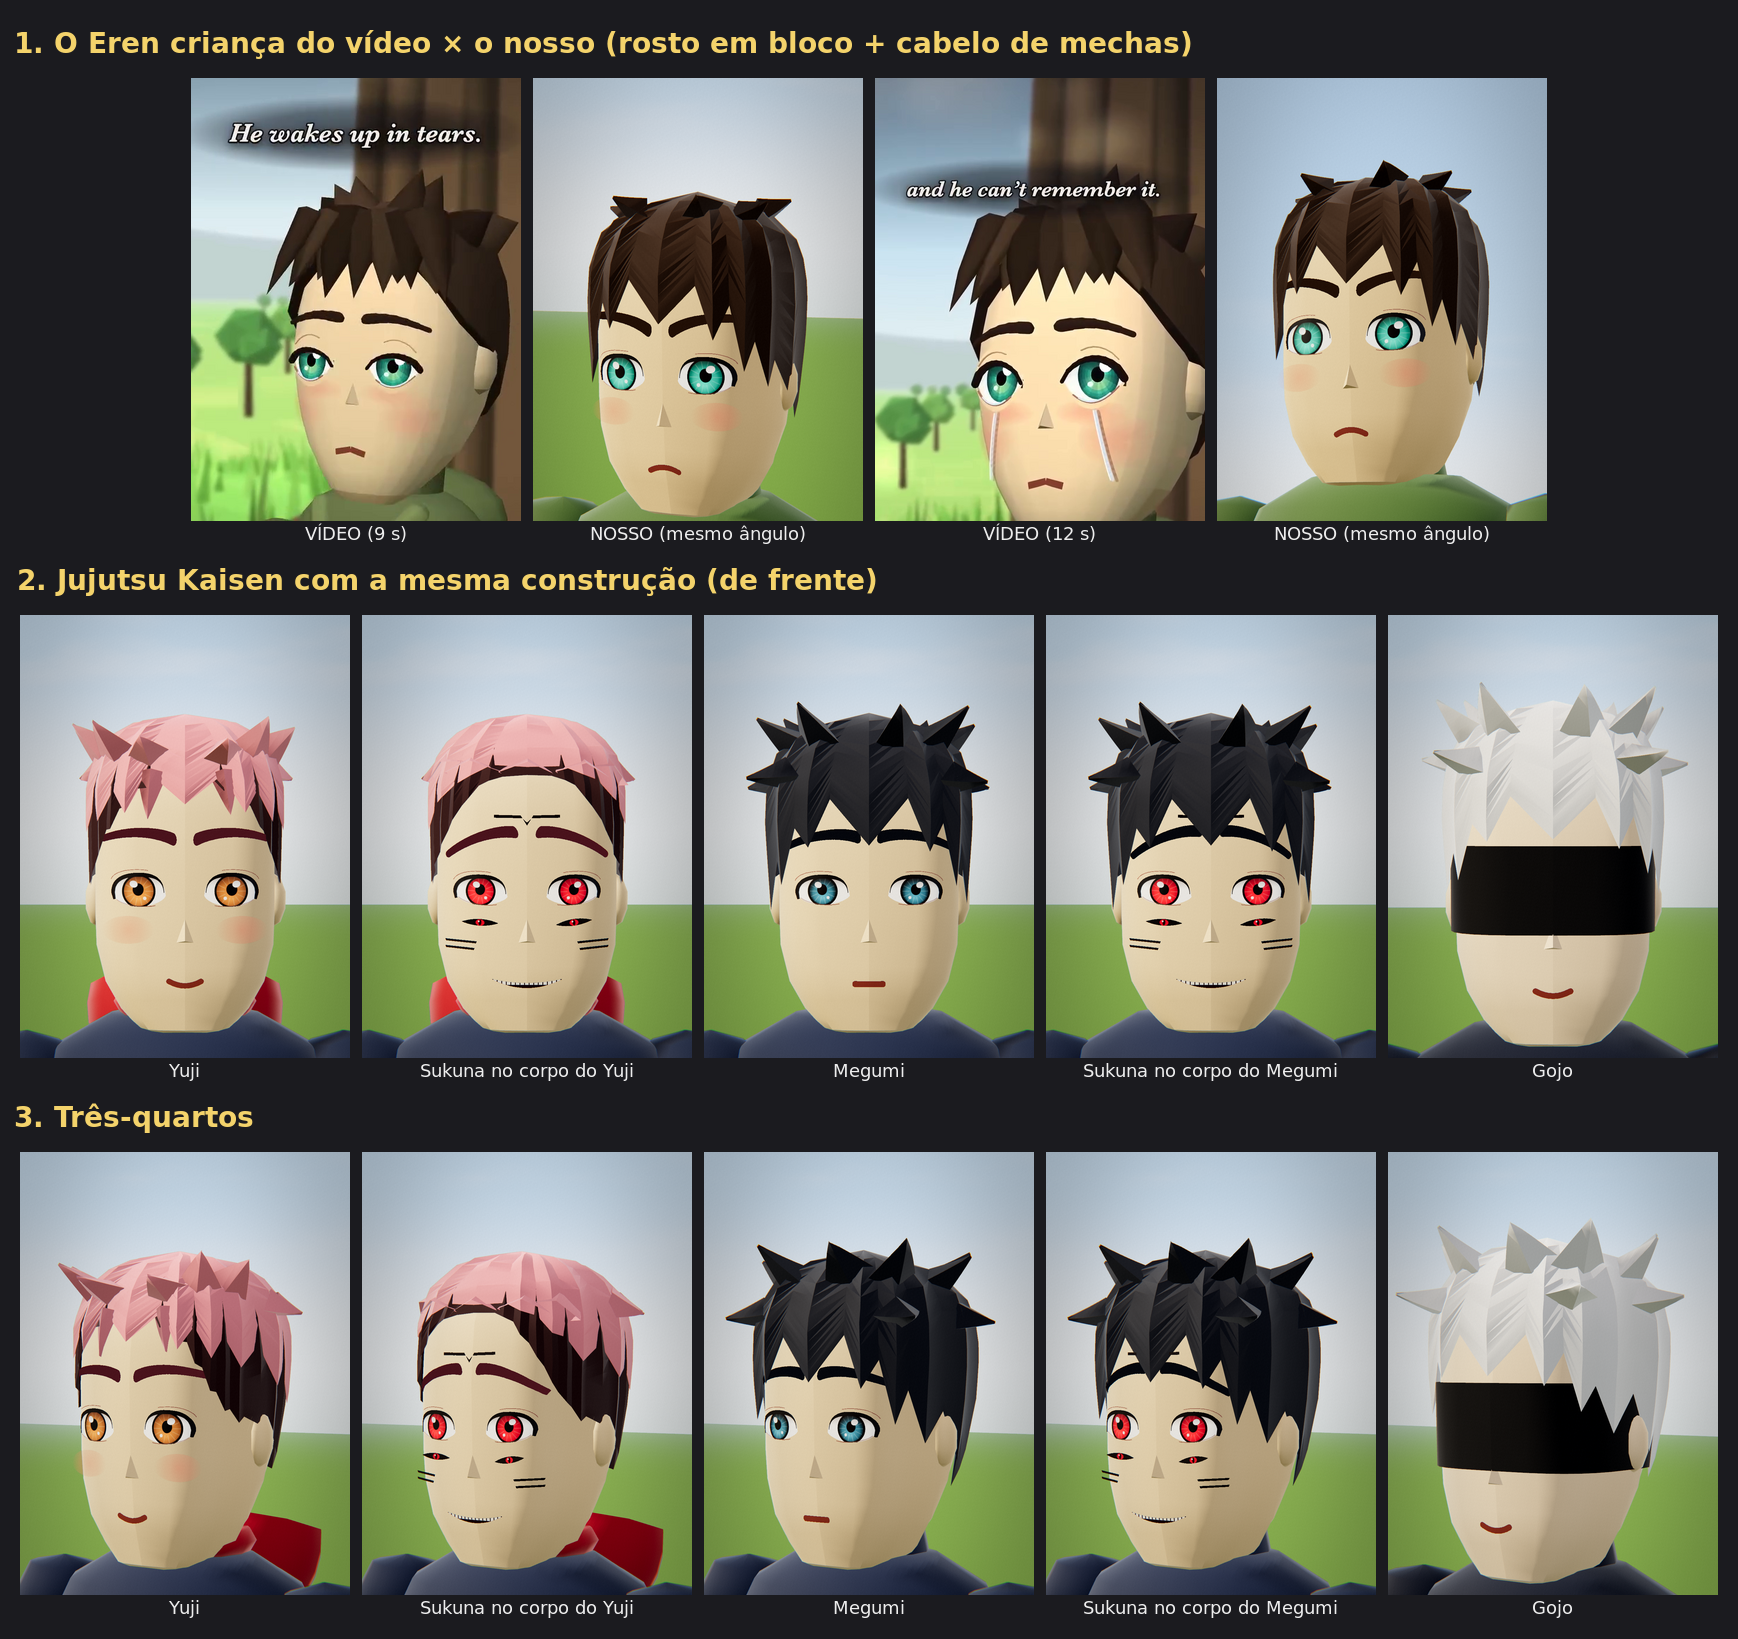
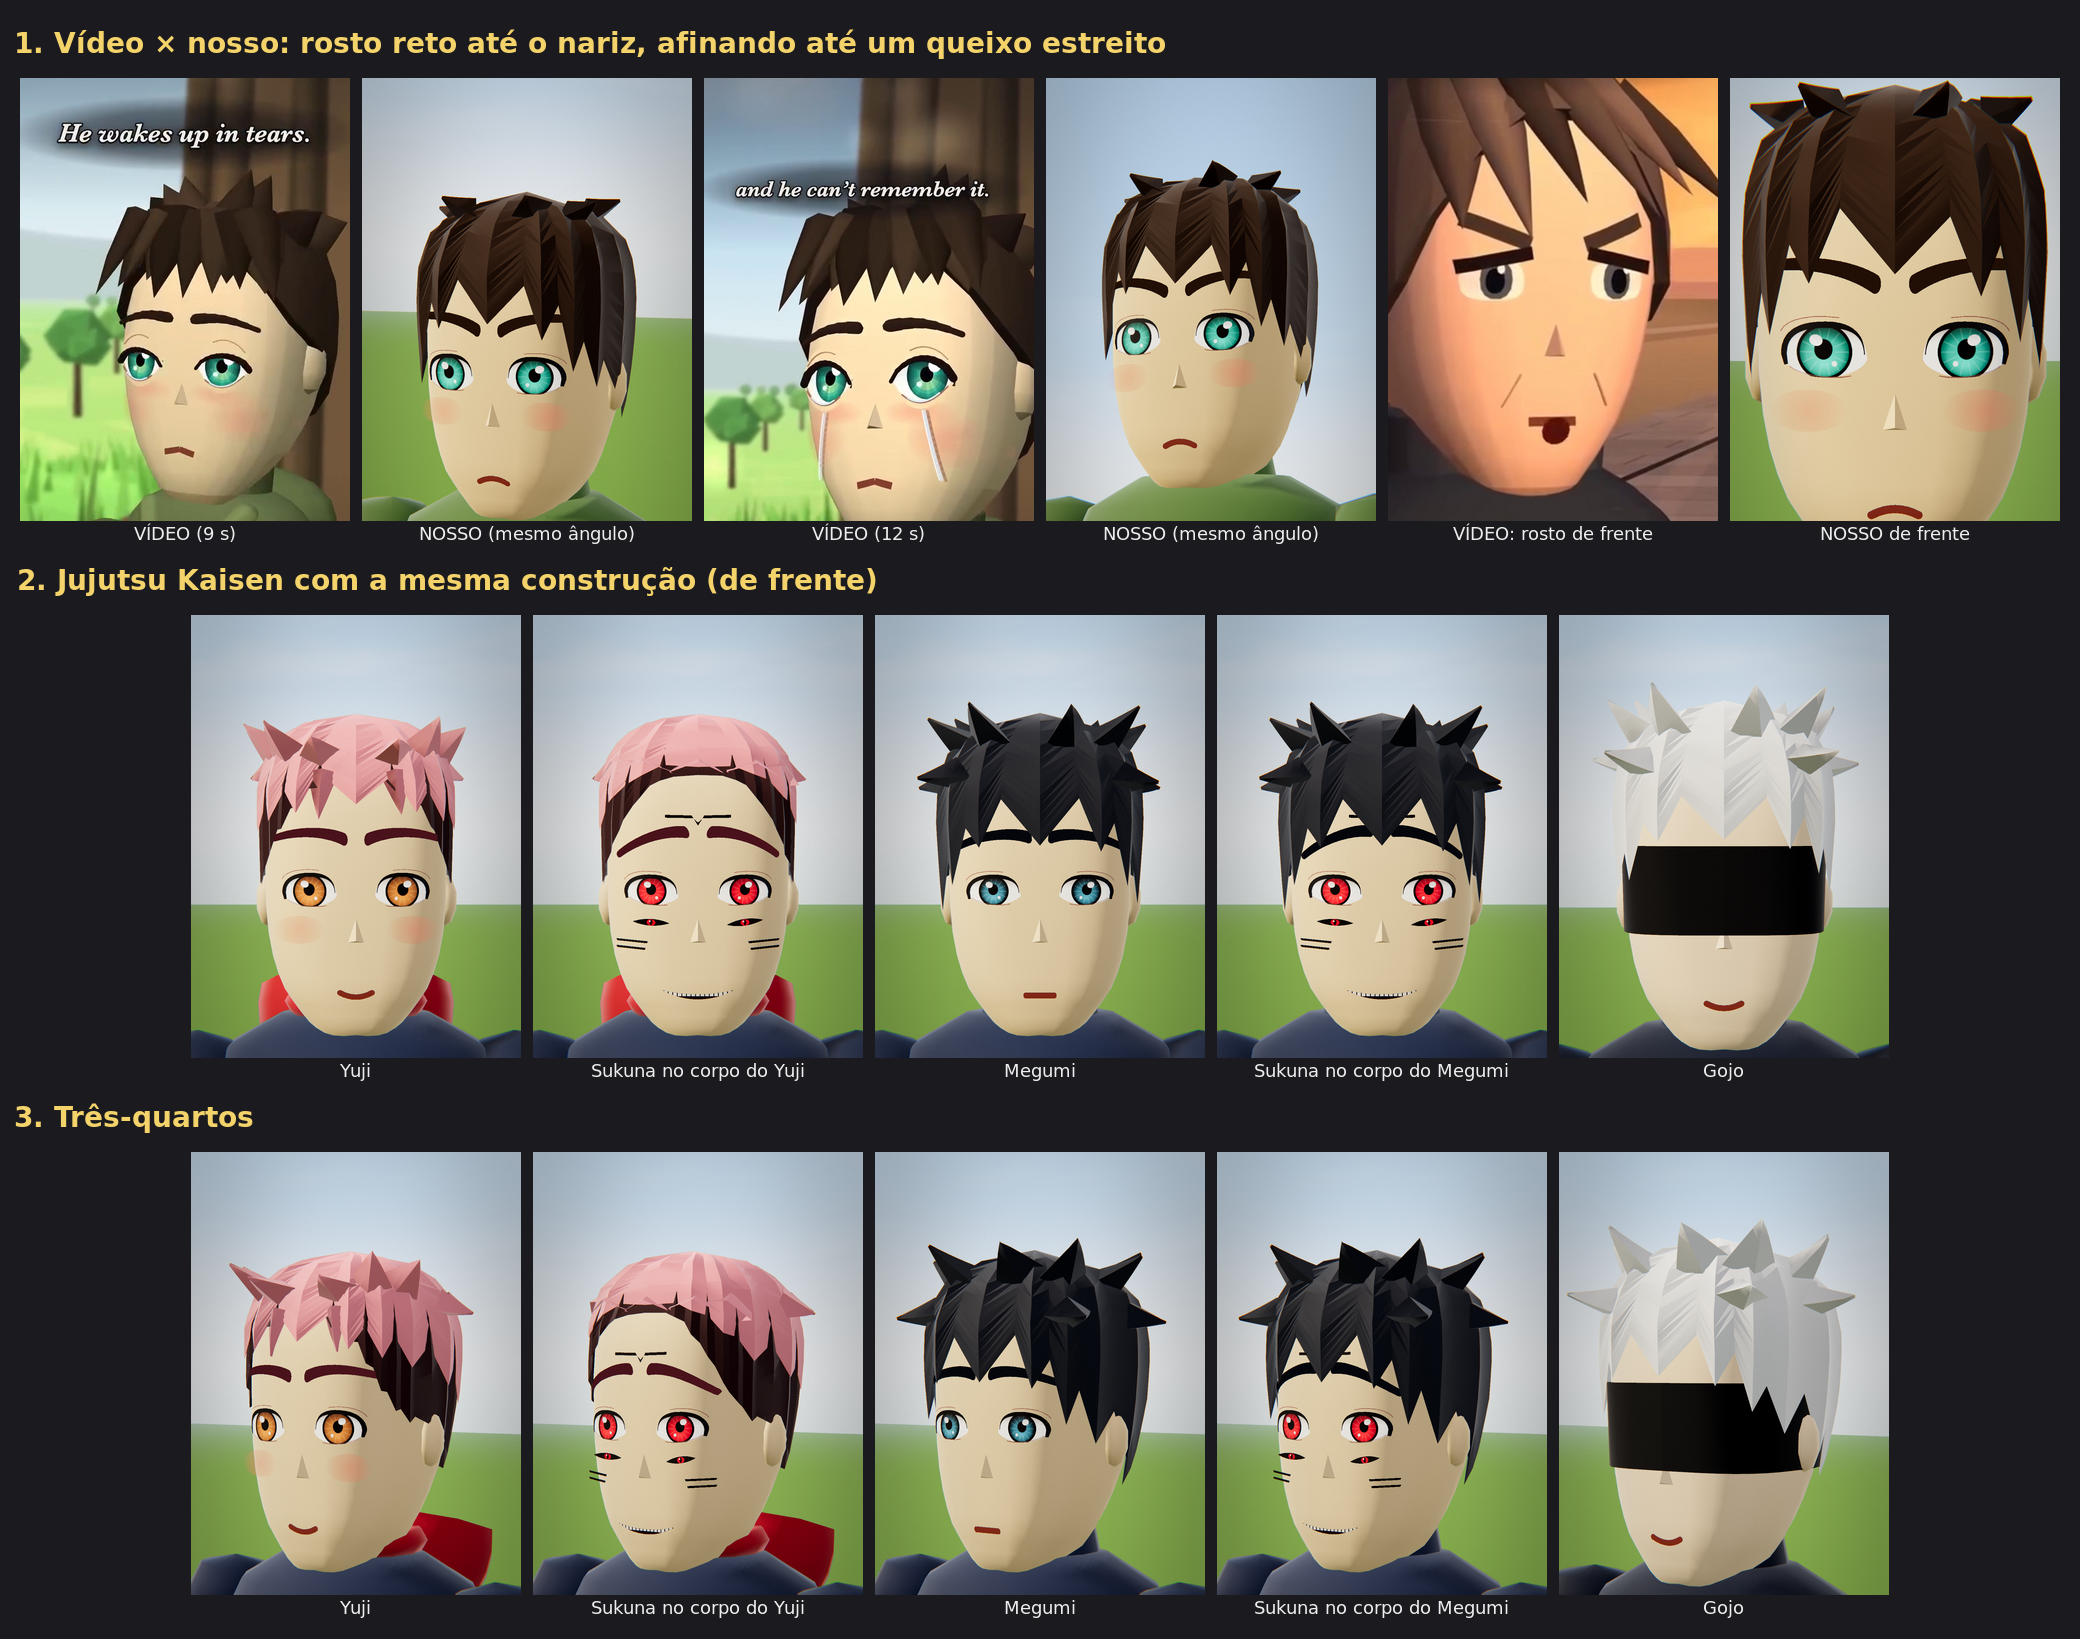
Personagens low-poly v8: rosto mais fino, medido em quadros de frente da referência
- Perfil do rosto refeito com o Kruger e o pai do Eren de frente: reto até o nariz e
  afinando num U comprido até um queixo estreito e arredondado (antes era largo e
  quadrado embaixo, medido em quadros meio de lado, que alargam o rosto).
- Queixo mais baixo (olho -> queixo = 0,86 da largura), boca um pouco mais baixa.
- Malha da cabeça com o meio do rosto numa face plana (sem risco vertical no meio).

Claude-Session: https://claude.ai/code/session_01NohiMdkC2Su1SAJxQxprzv

diff --git a/tools/motor3d/lowpoly.js b/tools/motor3d/lowpoly.js
@@ -1,6 +1,6 @@
 // ================================================================ personagens low-poly v7 (estilo da animação de referência, GUIA-ANIMACAO-ESTILO.md)
 // Calibrado reconstruindo o Eren criança da própria animação e comparando lado a lado, no mesmo ângulo dos quadros de 9 s e 12 s.
-// Rosto: BLOCO RETANGULAR arredondado (laterais retas, queixo largo e reto, frente plana, quinas marcadas), medido nos rostos
+// Rosto: retângulo em cima (laterais retas até o nariz) que afina num "U" comprido até um queixo estreito; frente plana e quinas marcadas. Medido nos rostos
 //   de frente do vídeo (Kruger, Eren adulto, Eren criança, Armin). Olhos grandes de anime, nariz em pirâmide 3D, sobrancelhas
 //   grossas, boca curta, blush. Os traços são decalques curvos que acompanham a pele.
 // Cabelo: uma touca justa feita de MECHAS em triângulo com aresta no meio, saindo do redemoinho no topo e terminando em dentes
@@ -128,16 +128,17 @@ const testaTex = canvasTex(256, 64, (c, w, h) => { c.clearRect(0, 0, w, h); c.fi
 // ---------------------------------------------------------------- cabeça (v7)
 // Medida nos rostos de frente da referência (Kruger, Eren adulto, Eren criança, Armin): um BLOCO RETANGULAR arredondado.
 // Unidade u = meia-largura do rosto na linha dos olhos (CAB.HW, em metros); y em u a partir da linha dos olhos (EY).
-//   - laterais retas desde a testa até logo abaixo do nariz; na boca o rosto ainda tem ~90% da largura;
-//   - mandíbula curta que fecha num queixo LARGO e reto (~50% da largura), a ~1,56 u abaixo dos olhos;
+//   - laterais retas desde a testa até o nariz; na boca o rosto tem ~80% da largura;
+//   - depois afina num "U" comprido até um queixo estreito e arredondado (~27% da largura), a ~1,72 u abaixo dos olhos;
 //   - frente plana (testa, olhos, bochechas), quinas marcadas entre a frente e os lados (low-poly);
 //   - crânio arredondado em cima, ~1,8 u acima dos olhos.
 const CAB = {
   HW: 0.075, EY: 0.093, nF: 3.4, nT: 2.3,
-  larg: [[-1.6, 0], [-1.585, 0.4], [-1.52, 0.54], [-1.32, 0.72], [-1.02, 0.89], [-0.62, 0.99], [-0.3, 1.0], [0.7, 1.0], [1.1, 0.96], [1.42, 0.84], [1.66, 0.56], [1.78, 0.24], [1.8, 0]],
-  frente: [[-1.6, 0.56], [-1.52, 0.7], [-1.0, 0.84], [-0.3, 0.9], [0.5, 0.92], [1.05, 0.88], [1.42, 0.72], [1.66, 0.44], [1.8, 0]],
-  tras: [[-1.6, -0.36], [-1.3, -0.1], [-0.9, 0.4], [-0.4, 0.95], [0.3, 1.26], [0.95, 1.28], [1.4, 1.06], [1.68, 0.6], [1.8, 0]],
-  Y: [-1.6, -1.585, -1.52, -1.42, -1.32, -1.18, -1.02, -0.82, -0.62, -0.3, 0.1, 0.45, 0.8, 1.1, 1.3, 1.48, 1.62, 1.72, 1.8],
+  // medido de frente no Kruger e no pai do Eren: reto até o nariz, depois afina num "U" comprido até um queixo estreito (~27%)
+  larg: [[-1.72, 0], [-1.71, 0.2], [-1.68, 0.3], [-1.62, 0.39], [-1.56, 0.45], [-1.48, 0.52], [-1.36, 0.62], [-1.24, 0.71], [-1.12, 0.79], [-0.95, 0.86], [-0.75, 0.92], [-0.55, 0.96], [-0.3, 0.99], [0.0, 1.0], [0.7, 1.0], [1.1, 0.96], [1.42, 0.84], [1.66, 0.56], [1.78, 0.24], [1.8, 0]],
+  frente: [[-1.72, 0.5], [-1.66, 0.62], [-1.5, 0.74], [-1.1, 0.84], [-0.3, 0.9], [0.5, 0.92], [1.05, 0.88], [1.42, 0.72], [1.66, 0.44], [1.8, 0]],
+  tras: [[-1.72, -0.3], [-1.45, -0.1], [-1.0, 0.4], [-0.45, 0.95], [0.3, 1.26], [0.95, 1.28], [1.4, 1.06], [1.68, 0.6], [1.8, 0]],
+  Y: [-1.72, -1.71, -1.68, -1.62, -1.56, -1.48, -1.36, -1.24, -1.12, -0.95, -0.75, -0.5, -0.2, 0.15, 0.5, 0.8, 1.1, 1.3, 1.48, 1.62, 1.72, 1.8],
 };
 function perfilY(pts, y) { if (y <= pts[0][0]) return pts[0][1]; for (let i = 0; i < pts.length - 1; i++) if (y <= pts[i + 1][0]) return lerp(pts[i][1], pts[i + 1][1], (y - pts[i][0]) / (pts[i + 1][0] - pts[i][0])); return pts[pts.length - 1][1]; }
 // ponto da superfície da cabeça (metros, espaço da cabeça) no ângulo ph (0 = frente, ±π/2 = lados, π = nuca) e altura y (u)
@@ -150,14 +151,14 @@ function supCab(ph, y, ext = 0, out = V3_()) {
 }
 function nrmCab(ph, y) { // normal (aprox.) por diferenças finitas, no espaço u
   const e = 0.01, H = CAB, f = (a, b) => { const s_ = Math.sin(a), c_ = Math.cos(a), n = c_ >= 0 ? H.nF : H.nT, w = perfilY(H.larg, b), d = c_ >= 0 ? perfilY(H.frente, b) : perfilY(H.tras, b); return V3_(Math.sign(s_) * Math.pow(Math.abs(s_), 2 / n) * w, b, Math.sign(c_) * Math.pow(Math.abs(c_), 2 / n) * d); };
-  const p0 = f(ph, y), tu = f(ph + e, y).sub(f(ph - e, y)), tv = f(ph, Math.min(1.8, y + e)).sub(f(ph, Math.max(-1.6, y - e)));
+  const p0 = f(ph, y), tu = f(ph + e, y).sub(f(ph - e, y)), tv = f(ph, Math.min(1.8, y + e)).sub(f(ph, Math.max(-1.72, y - e)));
   const n = V3_().crossVectors(tu, tv); if (n.lengthSq() < 1e-12) n.copy(p0).setY(y > 0 ? 1 : -1); n.normalize();
-  if (n.dot(V3_(p0.x, y > 1.7 ? 1 : y < -1.55 ? -1 : 0, p0.z)) < 0) n.negate();
+  if (n.dot(V3_(p0.x, y > 1.7 ? 1 : y < -1.68 ? -1 : 0, p0.z)) < 0) n.negate();
   return n;
 }
 function headGeoLP(o = {}) {
-  const NS = o.ns ?? 20, Y = CAB.Y, pos = [], idx = [];
-  for (let i = 0; i < Y.length; i++) for (let j = 0; j <= NS; j++) { const v = supCab((j / NS) * Math.PI * 2, Y[i]); pos.push(v.x, v.y, v.z); }
+  const NS = o.ns ?? 24, Y = CAB.Y, pos = [], idx = [], ph0 = Math.PI / NS; // meia volta de deslocamento: o meio do rosto cai numa face plana (sem risco no meio)
+  for (let i = 0; i < Y.length; i++) for (let j = 0; j <= NS; j++) { const v = supCab(ph0 + (j / NS) * Math.PI * 2, Y[i]); pos.push(v.x, v.y, v.z); }
   for (let i = 0; i < Y.length - 1; i++) for (let j = 0; j < NS; j++) { const a = i * (NS + 1) + j, b = a + NS + 1; idx.push(a, a + 1, b, a + 1, b + 1, b); }
   const g = new THREE.BufferGeometry(); g.setAttribute("position", new THREE.Float32BufferAttribute(pos, 3)); g.setIndex(idx);
   return vincoNormais(g, o.vinco ?? 0.62);
@@ -282,7 +283,7 @@ function pessoaLP(o = {}) {
   });
   const brows = [-1, 1].map((k) => { const y = EY + 0.04, rz0 = -k * (0.02 + (P.brava ?? 0) * 0.24), bx = k * (EX + 0.001); const g = grp(S.head, bx, y, 0); g.rotation.z = rz0; g.userData = { y0: y, rz0 }; decalSup(g, sobrancelhaTex, 0.064, 0.019, 0, 0, (x, yy) => zAt(bx + x, y + yy), { espelho: k < 0, basico: true, cor: P.sobrancelha ?? 0x2a1c18, dz: 0.0036 }); g.visible = !P.venda; return g; });
   mesh(narizGeo(0.0135, 0.024, 0.0085), LPmat(P.pele, { rim: 0.3, rough: 0.7 }), 0, 0.06, zAt(0, 0.06) - 0.0012, S.head); // nariz 3D
-  const MY = 0.018, mz = zAt(0, MY) + 0.003;
+  const MY = 0.009, mz = zAt(0, MY) + 0.003;
   const bocas = {};
   ["linha", "sorriso", "triste", "aberta"].forEach((t) => (bocas[t] = decalSup(S.head, bocaTex(t), 0.056, 0.028, 0, MY, zAt, { dz: 0.003 })));
   bocas.risada = decalSup(S.head, bocaTex("risada"), 0.066, 0.033, 0, MY, zAt, { dz: 0.0034 });
